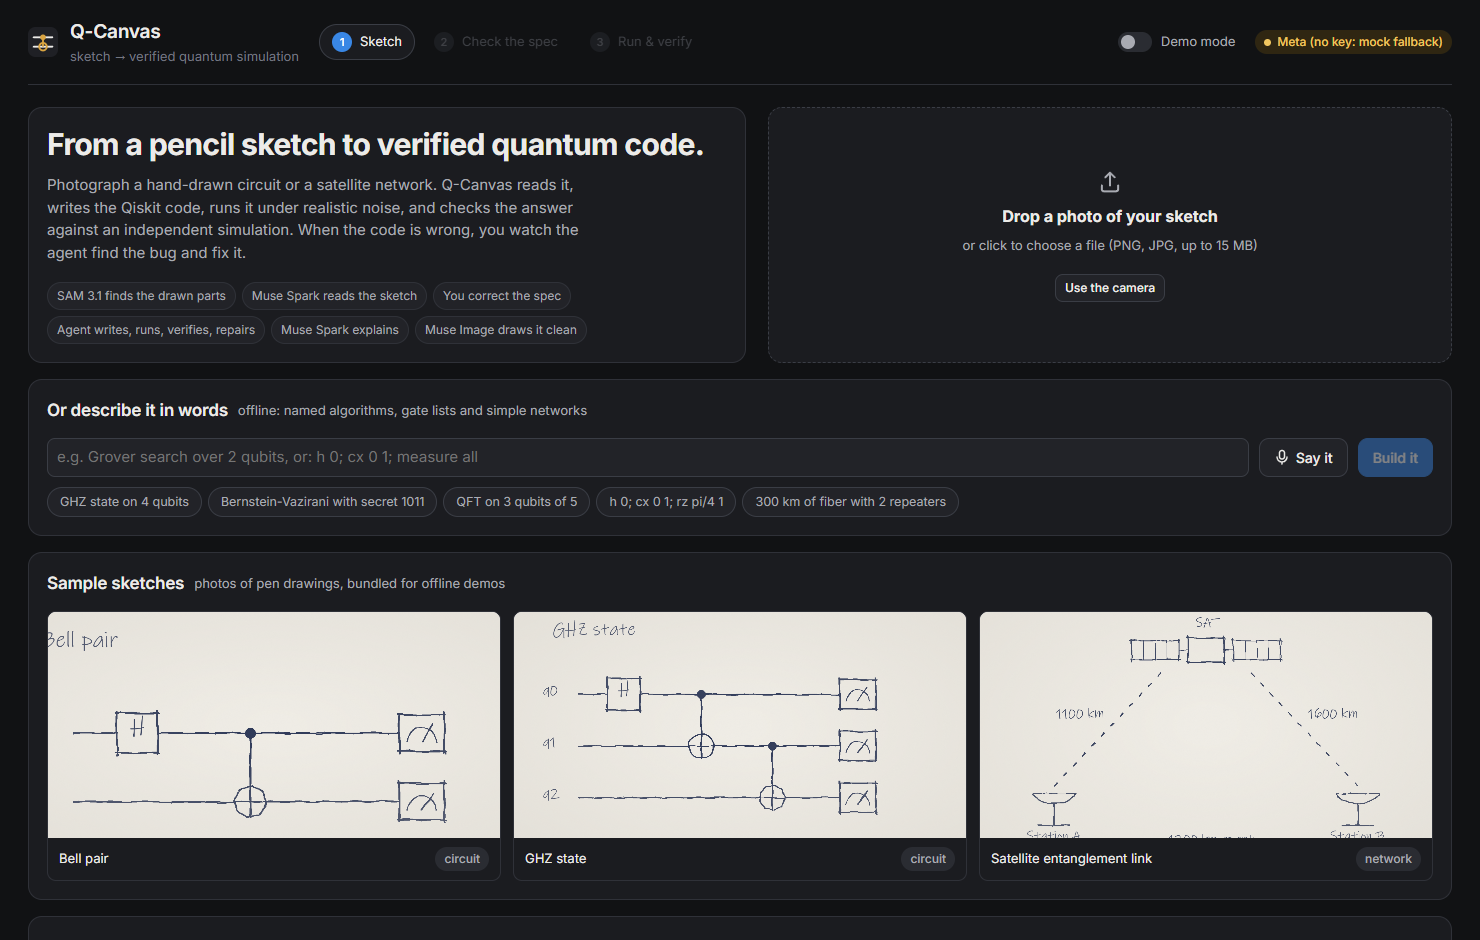
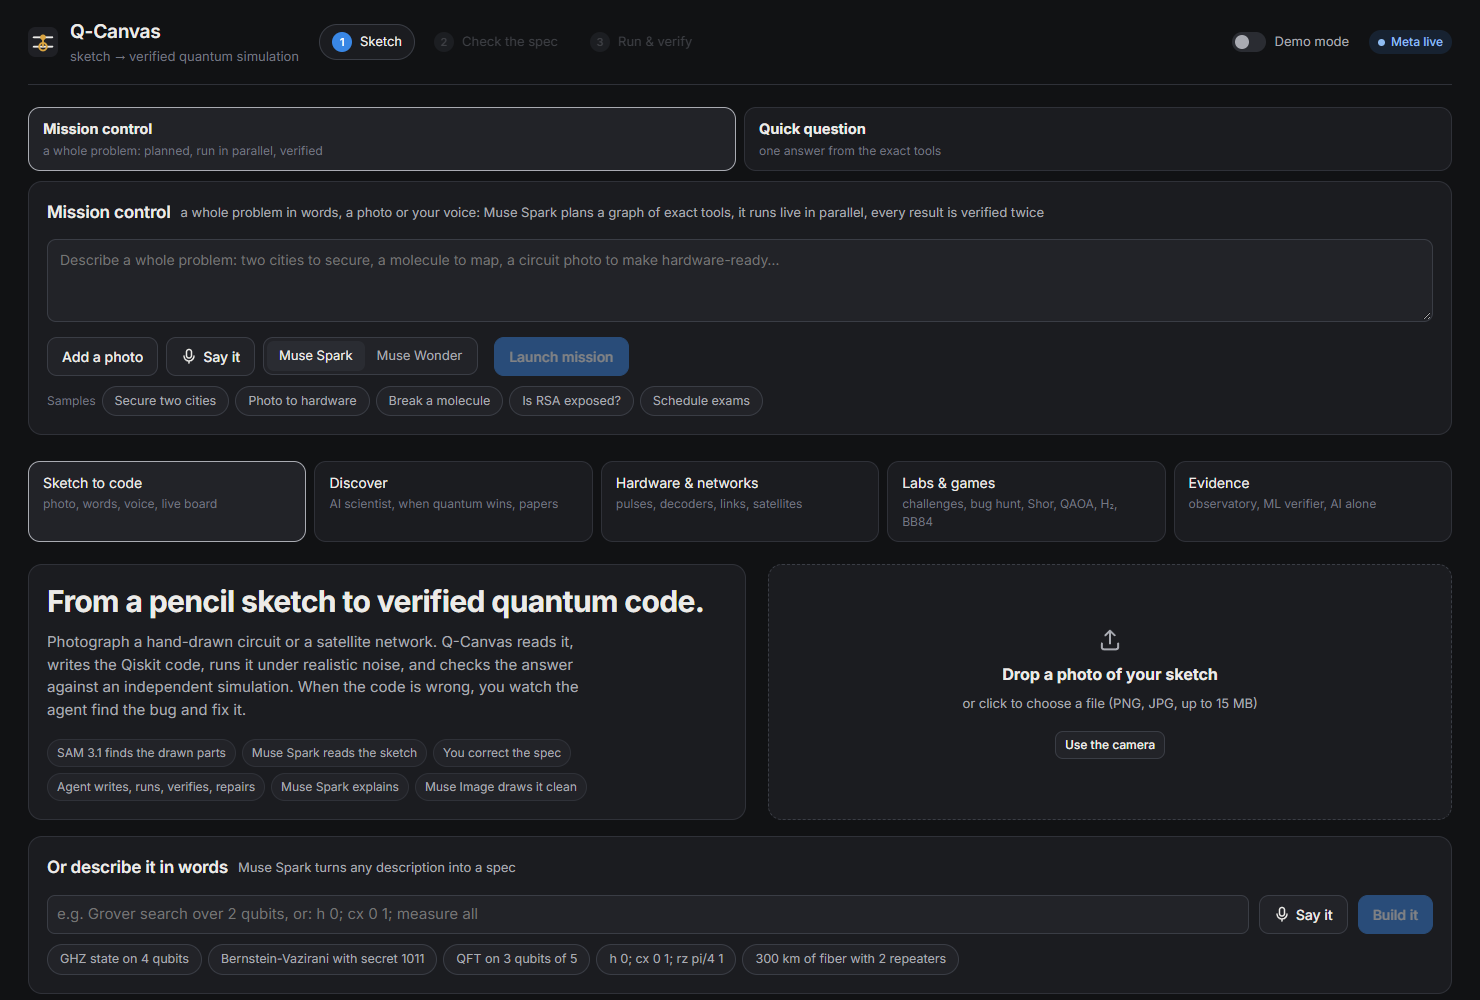
Focus pass: Mission control leads the start page with a switch to a quick question; everything else sits in five sections (sketch to code, discover, hardware and networks, labs and games, evidence) that load only when opened and are linkable by #tab; cards jump across sections; the pulse sweep is 3x

diff --git a/frontend/src/App.tsx b/frontend/src/App.tsx
@@ -12,7 +12,7 @@ import { QaoaLabPanel } from './components/Qaoa'
 import { BugHuntPanel } from './components/BugHunt'
 import { ArenaPanel } from './components/Arena'
 import { ChemLabPanel, QkdLabPanel } from './components/Science'
-import { UseCases } from './components/UseCases'
+import { UseCases, scrollToPanel } from './components/UseCases'
 import { CopilotPanel } from './components/Copilot'
 import { RosettaPanel } from './components/Rosetta'
 import { ObservatoryPanel } from './components/Observatory'
@@ -33,6 +33,15 @@ import type {
   NetworkResult, NetworkSpec, RecentRun, RunOptions, SketchAnalysis, Spec, SpecIssue, Verdict,
 } from './types'
 import { clone, decodeSpec, encodeSpec, specTitle } from './util'
+
+type SectionId = 'build' | 'discover' | 'hardware' | 'labs' | 'evidence'
+const SECTIONS: { id: SectionId; label: string; hint: string; panels: string[] }[] = [
+  { id: 'build', label: 'Sketch to code', hint: 'photo, words, voice, live board', panels: ['Live board', 'Quantum Rosetta', 'What it can do', 'Recent runs', 'Sample sketches'] },
+  { id: 'discover', label: 'Discover', hint: 'AI scientist, when quantum wins, papers', panels: ['Discovery lab', 'When does quantum win?', 'Reproduce a paper'] },
+  { id: 'hardware', label: 'Hardware & networks', hint: 'pulses, decoders, links, satellites', panels: ['Pulse lab', 'ML error-correction decoder', 'Error-correction lab', 'Distributed quantum computer', 'Satellite planner'] },
+  { id: 'labs', label: 'Labs & games', hint: 'challenges, bug hunt, Shor, QAOA, H₂, BB84', panels: ['Challenges', 'Bug hunt', "Shor's algorithm lab", 'Split the party', 'Molecule lab', 'Catch the spy'] },
+  { id: 'evidence', label: 'Evidence', hint: 'observatory, ML verifier, AI alone', panels: ['Simulation observatory', 'AI alone vs Q-Canvas'] },
+]
 
 type Stage = 'start' | 'edit' | 'run'
 
@@ -80,6 +89,30 @@ export default function App() {
   const [examples, setExamples] = useState<Examples | null>(null)
   const [backendError, setBackendError] = useState<string | null>(null)
   const [stage, setStage] = useState<Stage>('start')
+  const [assistant, setAssistant] = useState<'mission' | 'ask'>('mission')
+  const [tab, setTab] = useState<SectionId>(() => {
+    const h = new URLSearchParams(window.location.hash.slice(1)).get('tab')
+    return (SECTIONS.find((t) => t.id === h)?.id ?? 'build') as SectionId
+  })
+  const goTab = (id: SectionId) => {
+    setTab(id)
+    if (window.location.hash.startsWith('#s=')) return  // a shared circuit link: leave it intact
+    const params = new URLSearchParams(window.location.hash.slice(1))
+    params.set('tab', id)
+    window.history.replaceState(null, '', `#${params.toString()}`)
+  }
+  useEffect(() => {
+    const onGoto = (e: Event) => {
+      const title = (e as CustomEvent<string>).detail
+      const hit = SECTIONS.find((t) => t.panels.some((p) => p.startsWith(title) || title.startsWith(p)))
+      if (!hit) return
+      goTab(hit.id)
+      window.setTimeout(() => scrollToPanel(title, true), 150)
+      window.setTimeout(() => scrollToPanel(title, true), 1100)  // again once the panels above have loaded
+    }
+    window.addEventListener('qcanvas:goto', onGoto)
+    return () => window.removeEventListener('qcanvas:goto', onGoto)
+  }, []) // eslint-disable-line react-hooks/exhaustive-deps
   const [sketch, setSketch] = useState<{ url: string; analysis: SketchAnalysis } | null>(null)
   const [spec, setSpec] = useState<Spec | null>(null)
   const [issues, setIssues] = useState<SpecIssue[]>([])
@@ -305,31 +338,66 @@ export default function App() {
               <button className="btn small" onClick={() => setStage('edit')} disabled={!spec}>Back to the challenge</button>
             </div>
           )}
-          <StartPanel examples={examples} busy={busy} error={startError} onImage={onImage} onSpec={onSpec} onText={onText}
-            live={health?.mode === 'meta'} recent={recent} onOpen={openJob}
-            extra={<>
-              <MissionPanel live={health?.mode === 'meta'} examples={examples} onOpen={(s) => onSpec(clone(s))} />
-              <LiveBoardPanel live={health?.mode === 'meta'} onOpen={(s) => onSpec(clone(s))} />
+          <div className="hero-switch" role="tablist" aria-label="Assistant">
+            <button role="tab" aria-selected={assistant === 'mission'} className={assistant === 'mission' ? 'on' : ''} onClick={() => setAssistant('mission')}>
+              <b>Mission control</b><span>a whole problem: planned, run in parallel, verified</span></button>
+            <button role="tab" aria-selected={assistant === 'ask'} className={assistant === 'ask' ? 'on' : ''} onClick={() => setAssistant('ask')}>
+              <b>Quick question</b><span>one answer from the exact tools</span></button>
+          </div>
+          <div style={{ display: assistant === 'mission' ? 'block' : 'none' }}>
+            <MissionPanel live={health?.mode === 'meta'} examples={examples} onOpen={(s) => onSpec(clone(s))} />
+          </div>
+          <div style={{ display: assistant === 'ask' ? 'block' : 'none' }}>
+            <CopilotPanel live={health?.mode === 'meta'} onOpen={(s) => onSpec(clone(s))} />
+          </div>
+          <nav className="section-tabs" role="tablist" aria-label="Sections">
+            {SECTIONS.map((t) => (
+              <button key={t.id} role="tab" aria-selected={tab === t.id} className={tab === t.id ? 'on' : ''} onClick={() => goTab(t.id)}>
+                {t.label}<span>{t.hint}</span>
+              </button>
+            ))}
+          </nav>
+          {tab === 'build' && (
+            <StartPanel examples={examples} busy={busy} error={startError} onImage={onImage} onSpec={onSpec} onText={onText}
+              live={health?.mode === 'meta'} recent={recent} onOpen={openJob}
+              extra={<>
+                <LiveBoardPanel live={health?.mode === 'meta'} onOpen={(s) => onSpec(clone(s))} />
+                <RosettaPanel live={health?.mode === 'meta'} onOpen={(s) => onSpec(clone(s))} />
+                <UseCases examples={examples} onImage={onImage} onSpec={onSpec} busy={busy} />
+              </>} />
+          )}
+          {tab === 'discover' && (
+            <div className="stack section-body">
               <DiscoveryPanel live={health?.mode === 'meta'} onOpen={(s) => onSpec(clone(s))} />
-              <GlobePanel />
-              <ReproducePanel live={health?.mode === 'meta'} onOpen={(s) => onSpec(clone(s))} />
-              <DistributedPanel examples={examples} onOpen={(s) => onSpec(clone(s))} />
-              <DecoderPanel />
-              <PulsePanel />
               <EstimatorPanel live={health?.mode === 'meta'} />
-              <CopilotPanel live={health?.mode === 'meta'} onOpen={(s) => onSpec(clone(s))} />
-              <RosettaPanel live={health?.mode === 'meta'} onOpen={(s) => onSpec(clone(s))} />
-              <UseCases examples={examples} onImage={onImage} onSpec={onSpec} busy={busy} />
-              <ObservatoryPanel />
-              <ArenaPanel />
+              <ReproducePanel live={health?.mode === 'meta'} onOpen={(s) => onSpec(clone(s))} />
+            </div>
+          )}
+          {tab === 'hardware' && (
+            <div className="stack section-body">
+              <PulsePanel />
+              <DecoderPanel />
+              <RepetitionLabPanel onTry={tryCode} />
+              <DistributedPanel examples={examples} onOpen={(s) => onSpec(clone(s))} />
+              <GlobePanel />
+            </div>
+          )}
+          {tab === 'labs' && (
+            <div className="stack section-body">
               <ChallengeList list={challenges} progress={progress} onStart={startChallenge} />
               <BugHuntPanel live={health?.mode === 'meta'} onOpen={(s) => onSpec(clone(s))} />
               <ShorLabPanel onOpen={(s) => onSpec(clone(s))} />
               <QaoaLabPanel onOpen={(s) => onSpec(clone(s))} />
               <ChemLabPanel onOpen={(s) => onSpec(clone(s))} />
               <QkdLabPanel onOpen={(s) => onSpec(clone(s))} />
-              <RepetitionLabPanel onTry={tryCode} />
-            </>} />
+            </div>
+          )}
+          {tab === 'evidence' && (
+            <div className="stack section-body">
+              <ObservatoryPanel />
+              <ArenaPanel />
+            </div>
+          )}
         </>
       )}
 

diff --git a/frontend/src/index.css b/frontend/src/index.css
@@ -725,3 +725,21 @@ details summary { cursor: pointer; }
 .repro-verdict { color: var(--text-2); }
 .repro-verdict.bad { color: var(--warn); }
 @media (max-width: 640px) { .repro-row { grid-template-columns: 56px 1fr; } .repro-verdict { grid-column: 1 / -1; } }
+
+/* focus pass: assistant switch and section tabs */
+.hero-switch { display: grid; grid-template-columns: repeat(2, minmax(0, 1fr)); gap: 8px; margin-bottom: 10px; }
+.hero-switch button, .section-tabs button { display: flex; flex-direction: column; gap: 2px; text-align: left; background: var(--panel); border: 1px solid var(--line);
+  border-radius: 12px; padding: 10px 14px; color: var(--text-2); font: inherit; cursor: pointer; }
+.hero-switch button b { font-size: 14.5px; color: var(--text); }
+.hero-switch button span, .section-tabs button span { font-size: 12px; color: var(--muted); }
+.hero-switch button.on, .section-tabs button.on { border-color: var(--text-2); background: var(--panel-2); }
+.hero-switch button:hover:not(.on), .section-tabs button:hover:not(.on) { background: var(--panel-2); }
+.section-tabs { position: sticky; top: 0; z-index: 5; display: grid; grid-template-columns: repeat(5, minmax(0, 1fr)); gap: 8px;
+  margin: 18px 0 14px; padding: 8px 0; background: var(--bg); }
+.section-tabs button { font-size: 14px; color: var(--text); }
+@media (max-width: 900px) {
+  .section-tabs { grid-template-columns: none; grid-auto-flow: column; grid-auto-columns: minmax(150px, 1fr); overflow-x: auto; }
+}
+@media (max-width: 560px) { .hero-switch button span { display: none; } }
+.panel { scroll-margin-top: 92px; }
+.section-body { padding-bottom: 45vh; }

diff --git a/frontend/src/components/UseCases.tsx b/frontend/src/components/UseCases.tsx
@@ -14,10 +14,13 @@ const CASES: { id: string; tag: string; title: string; text: string; action: Act
   { id: 'evidence', tag: 'Trust', title: 'Can the AI be trusted?', text: 'We measured where the model alone goes wrong. Here, nothing reaches you unchecked.', action: { kind: 'panel', title: 'AI alone vs Q-Canvas' }, cta: 'See the evidence' },
 ]
 
-export function scrollToPanel(title: string) {
+export function scrollToPanel(title: string, retried = false) {
   const h = [...document.querySelectorAll('.panel h2')].find((el) => el.textContent?.startsWith(title))
   const panel = h?.closest('.panel') as HTMLElement | null
-  if (!panel) return
+  if (!panel) {  // in another section: ask the page to open it, then come back here
+    if (!retried) window.dispatchEvent(new CustomEvent('qcanvas:goto', { detail: title }))
+    return
+  }
   panel.scrollIntoView({ behavior: window.matchMedia('(prefers-reduced-motion: reduce)').matches ? 'auto' : 'smooth', block: 'start' })
   panel.classList.remove('flash')
   void panel.offsetWidth

diff --git a/backend/qcanvas/pulse.py b/backend/qcanvas/pulse.py
@@ -64,19 +64,19 @@ def _lindblad(h: np.ndarray, deco: bool) -> np.ndarray:
     return L
 
 
-def propagate(duration: float, beta: float, deco: bool = True, track: bool = False
+def propagate(duration: float, beta: float, deco: bool = True, track: bool = False, steps: int = STEPS
               ) -> tuple[np.ndarray, np.ndarray | None]:
     """Superoperator of the whole pulse (and, if asked, populations over time starting from |0>)."""
-    t, ox, dox = envelope(duration)
+    t, ox, dox = envelope(duration, steps)
     oy = -beta * dox / ALPHA
-    dt = duration / STEPS
+    dt = duration / steps
     S = np.eye(DIM * DIM, dtype=complex)
     rho = np.zeros(DIM * DIM, complex)
     rho[0] = 1.0
-    pops = np.zeros((STEPS + 1, DIM)) if track else None
+    pops = np.zeros((steps + 1, DIM)) if track else None
     if track:
         pops[0] = [1, 0, 0]
-    for k in range(STEPS):
+    for k in range(steps):
         h = ALPHA * _H2 + 0.5 * ox[k] * _HX + 0.5 * oy[k] * _HY
         step = expm(_lindblad(h, deco) * dt)
         S = step @ S
@@ -113,10 +113,10 @@ def best_beta(duration: float) -> float:
     """1-D calibration of the DRAG coefficient (golden-section search on the gate error)."""
     lo, hi = 0.0, 2.0
     g = (math.sqrt(5) - 1) / 2
-    f = lambda b: 1 - qubit_metrics(propagate(duration, b, deco=False)[0])[0]  # noqa: E731
+    f = lambda b: 1 - qubit_metrics(propagate(duration, b, deco=False, steps=200)[0])[0]  # noqa: E731
     c, d = hi - g * (hi - lo), lo + g * (hi - lo)
     fc, fd = f(c), f(d)
-    for _ in range(18):
+    for _ in range(12):  # brackets beta to about 0.01, plenty for a calibration
         if fc < fd:
             hi, d, fd = d, c, fc
             c = hi - g * (hi - lo)
@@ -174,8 +174,8 @@ def sweep() -> Sweep:
     durations = [4, 6, 8, 10, 12, 15, 20, 25, 30, 40, 50, 70, 100]
     ge, de, gl, dl, deco = [], [], [], [], []
     for d in durations:
-        fg, lg = qubit_metrics(propagate(d, 0.0)[0])
-        fd, ld = qubit_metrics(propagate(d, best_beta(float(d)))[0])
+        fg, lg = qubit_metrics(propagate(d, 0.0, steps=200)[0])
+        fd, ld = qubit_metrics(propagate(d, best_beta(float(d)), steps=200)[0])
         ge.append(1 - fg)
         de.append(1 - fd)
         gl.append(lg)

diff --git a/backend/qcanvas/api/app.py b/backend/qcanvas/api/app.py
@@ -29,9 +29,28 @@ from qcanvas.spec.validation import SpecError, parse_spec
 
 logging.basicConfig(level=logging.INFO, format="%(asctime)s %(levelname)s %(name)s: %(message)s")
 logging.getLogger("qiskit").setLevel(logging.WARNING)  # the transpiler logs every pass at INFO
+log = logging.getLogger("qcanvas.api")
 MAX_UPLOAD = 15 * 1024 * 1024
 
 app = FastAPI(title="Q-Canvas", version=__version__)
+
+
+@app.on_event("startup")
+def _warm_up() -> None:
+    """Compute the slow, input-free results (pulse sweep, observatory) in the background so no visitor waits."""
+    import threading
+
+    def work() -> None:
+        try:
+            from qcanvas.observatory import observatory
+            from qcanvas.pulse import sweep
+
+            observatory()
+            sweep()
+        except Exception as err:  # noqa: BLE001 - a failed warm-up only means the first visitor computes it
+            log.warning("warm-up failed: %s", err)
+
+    threading.Thread(target=work, name="warm-up", daemon=True).start()
 app.add_middleware(
     CORSMiddleware,
     allow_origins=["http://localhost:5173", "http://127.0.0.1:5173", "http://localhost:4173"],
